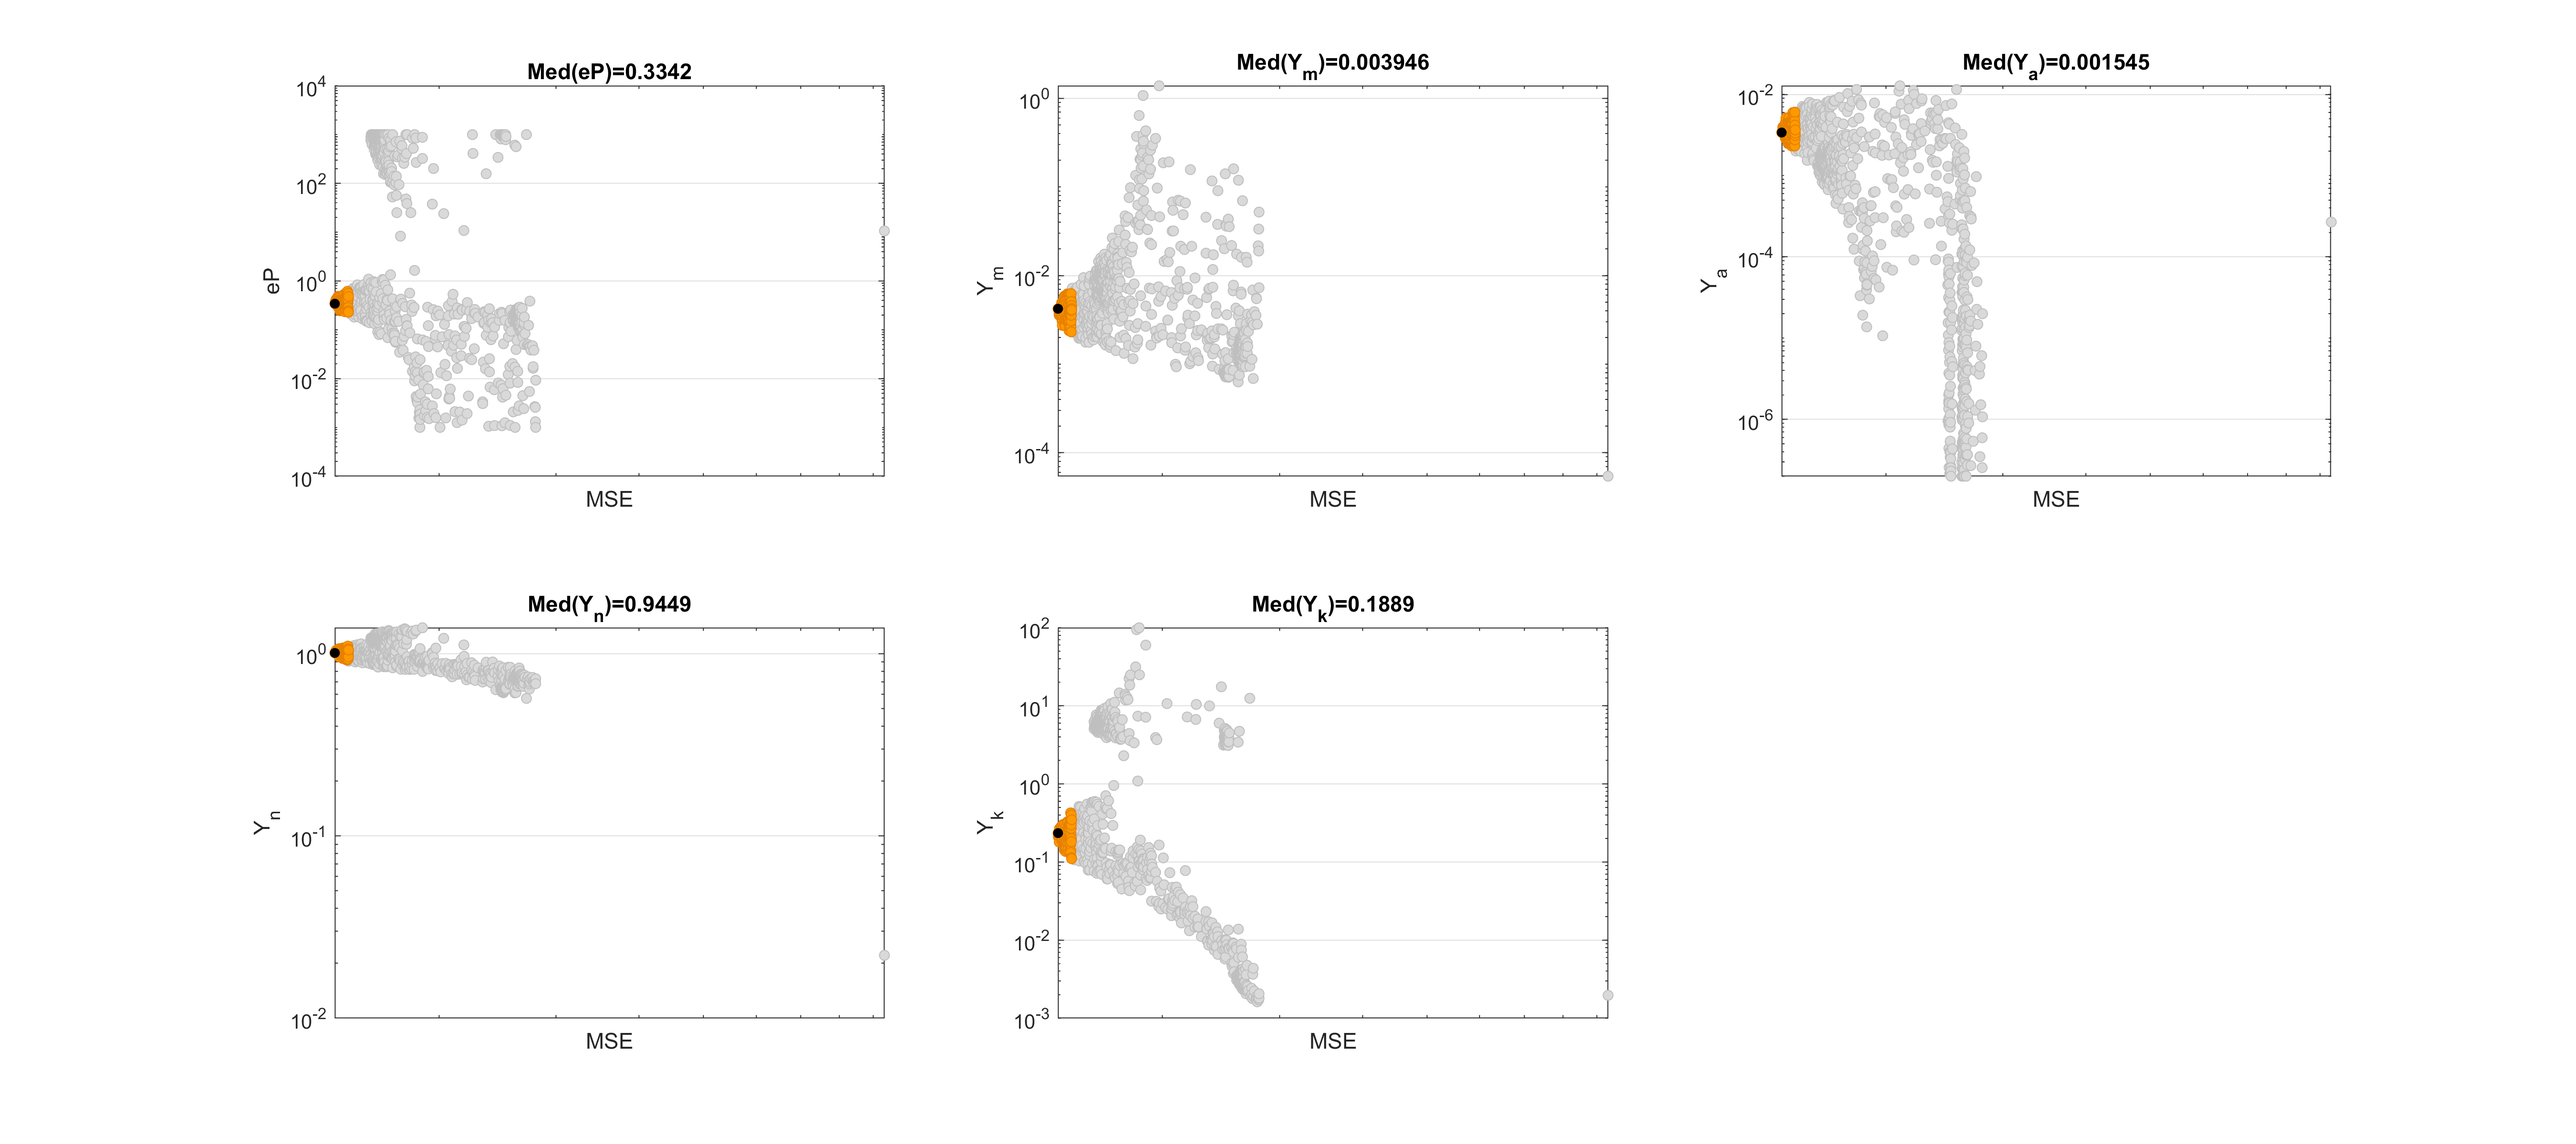
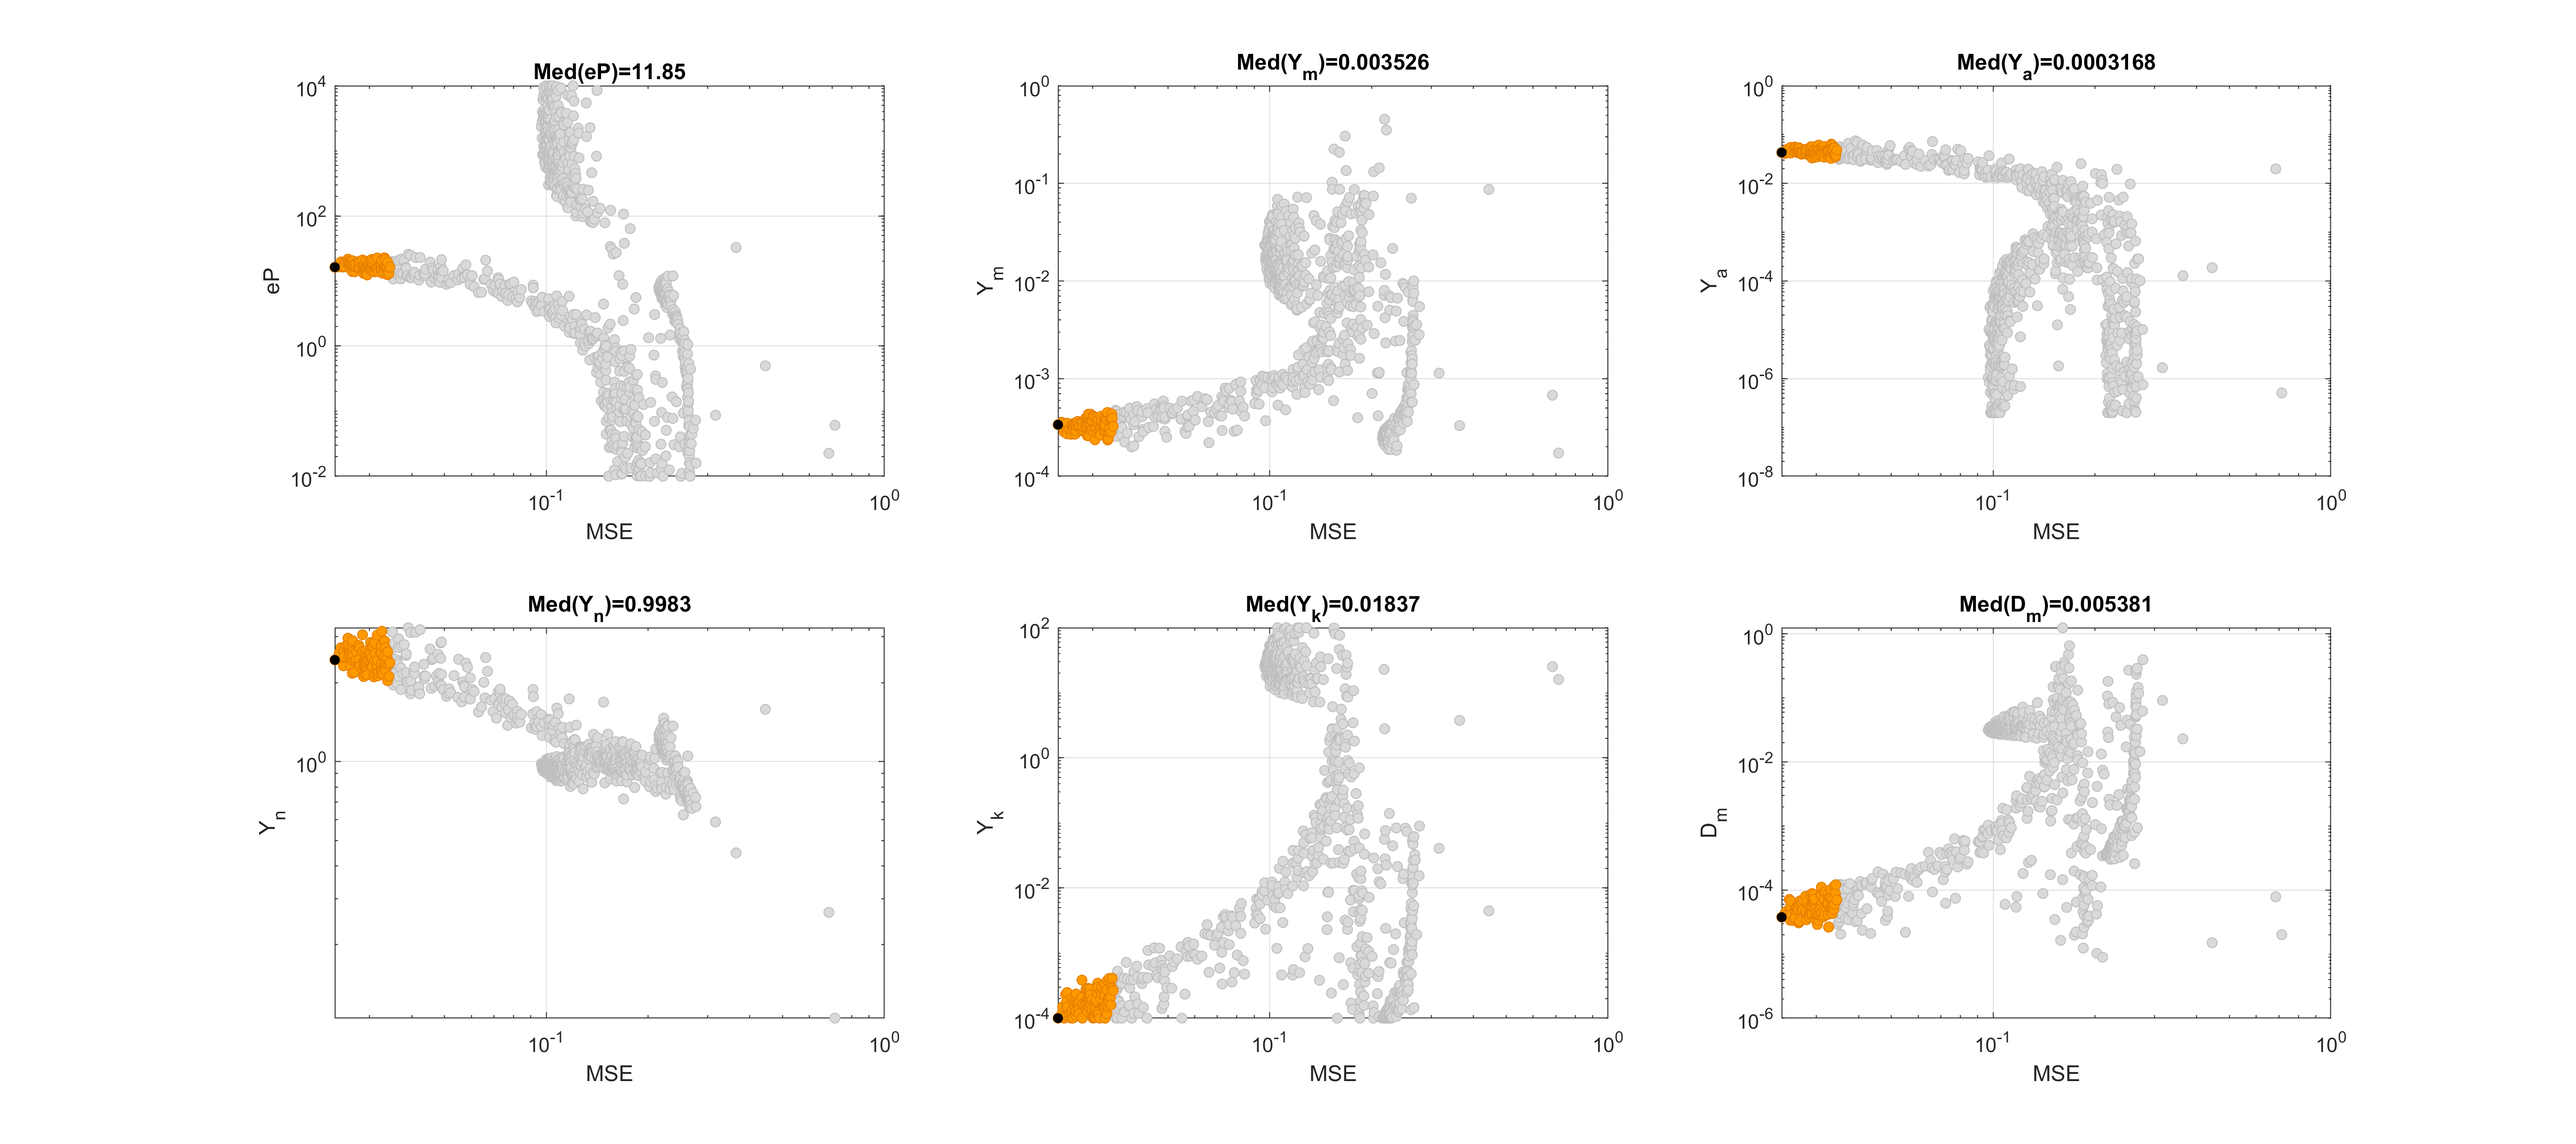
Sixth fitting attempt

diff --git a/RUN_FitMRW.m b/RUN_FitMRW.m
@@ -56,7 +56,7 @@ printAll = 0;   % Flag for printing full random walk
     i = i + 1;
     f(i).par = 'eP';
     f(i).cov = 0.1;
-    f(i).lim = [1e-3,1000];
+    f(i).lim = [1e-2,10000];
     i = i + 1;
     f(i).par = 'Y_m';
     f(i).cov = 0.1;
@@ -73,6 +73,10 @@ printAll = 0;   % Flag for printing full random walk
     f(i).par = 'Y_k';
     f(i).cov = 0.1;
     f(i).lim = [1e-4,100];
+    i = i + 1;
+    f(i).par = 'D_m';
+    f(i).cov = 0.1;
+    f(i).lim = [2e-6,2];
     clear i
 
 %% Run fitting:
